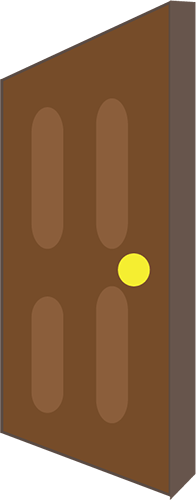
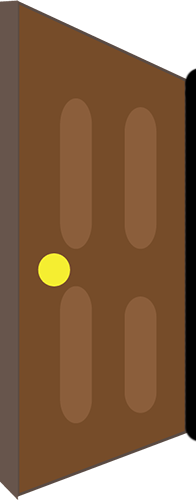
added door opening image, lowered fireplace

diff --git a/styles2.css b/styles2.css
@@ -65,14 +65,14 @@
   display: inline-block;
   width: 300px;
   height: 221px;
-  top: 88px;
+  top: 90px;
   background-image: url("images/cold_fireplace.png"); }
 
 #fireOn {
   position: relative;
   width: 300px;
   height: 221px;
-  top: 88px;
+  top: 90px;
   display: none;
   background-image: url("images/hot_fireplace.png"); }
 
@@ -80,10 +80,19 @@
   position: relative;
   display: inline-block;
   width: 72px;
+  height: 480px;
+  float: right;
+  bottom: 396px;
+  background-image: url("images/doorclosed.png"); }
+
+.doorOpen {
+  position: relative;
+  display: inline-block;
+  width: 196px;
   height: 500px;
   float: right;
-  bottom: 403px;
-  background-image: url("images/doorclosed.png"); }
+  bottom: 349px;
+  background-image: url("images/door_big.png"); }
 
 .floor {
   display: inline-block;
@@ -164,7 +173,7 @@ footer {
   width: 100%;
   height: 100px;
   background-color: gray;
-  opacity: .5; }
+  opacity: 0.5; }
 
 progress {
   background-color: green;

diff --git a/styles2.scss b/styles2.scss
@@ -82,7 +82,7 @@ left: 26px;
   display:inline-block;
   width:300px;
   height:221px;
-  top:88px;
+  top:90px;
   background-image:url("images/cold_fireplace.png");
   }
 
@@ -90,7 +90,7 @@ left: 26px;
   position:relative;
   width:300px;
   height:221px;
-  top:88px;
+  top:90px;
   display:none;
   background-image:url("images/hot_fireplace.png");
 
@@ -102,11 +102,22 @@ left: 26px;
   position:relative;
   display:inline-block;
   width:72px;
-  height:500px;
+  height:480px;
   float:right;
-  bottom: 403px;
+  bottom: 396px;
 
   background-image:url("images/doorclosed.png");
+  }
+
+.doorOpen {
+  position:relative;
+  display:inline-block;
+  width:196px;
+  height:500px;
+  float:right;
+  bottom: 349px;
+
+  background-image:url("images/door_big.png");
   }
 
 

diff --git a/scene2.js b/scene2.js
@@ -53,7 +53,8 @@ $(document).ready(function() {
 
       //Allows hyperlink to engage on below condition
       doorClick = true;
-
+      $('.door').addClass("doorOpen");
+      $('.door').removeClass("door");
       message("You're out, thank goodness.  That was getting strange.");
       console.log("key4inv: " + key4 + ", key5inv: " + key5);
 
@@ -70,7 +71,7 @@ $(document).ready(function() {
     }
     // IF KEY4 (the wrong key) IS IN INVENTORY BUT NOT KEY5
     else if (key4inv) {
-      message("The door is only partially unlocked and will not open");
+      message("The key doesn't fit.");
       console.log("key4inv: " + key4 + ", key5inv: " + key5);
     }
     // IF NO KEYS IN INV
